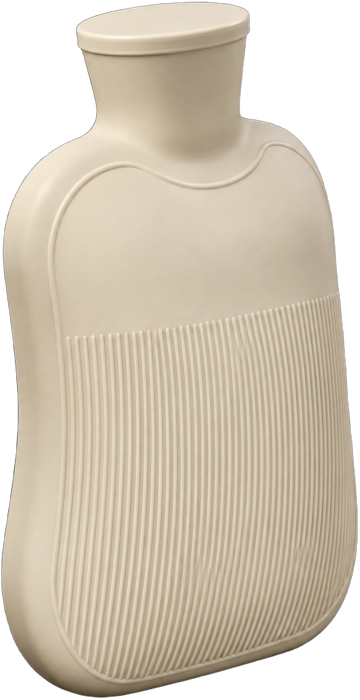
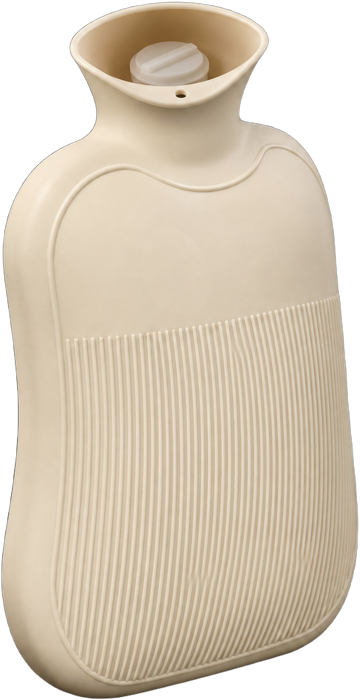
v3: water bottle neck, blink speed, band label size, pre-read layout

diff --git a/v3/index.html b/v3/index.html
@@ -1170,13 +1170,13 @@ section.ask-sec .hotglow{opacity:.55}
 section.ask-sec .play .hotglow{animation:ask-hp 3.2s ease-in-out infinite}
 @keyframes ask-hp{0%,100%{opacity:.35}50%{opacity:1}}
 section.ask-sec .skinheat{opacity:0}
-section.ask-sec .play .skinheat{animation:ask-sh .5s ease-in-out infinite}
+section.ask-sec .play .skinheat{animation:ask-sh 1.43s ease-in-out infinite}
 @keyframes ask-sh{0%,100%{opacity:0}50%{opacity:1}}
 section.ask-sec .wave{stroke-dasharray:6 10;opacity:0}
 section.ask-sec .play .wave{opacity:.9;animation:ask-wv 1.4s linear infinite}
 @keyframes ask-wv{to{stroke-dashoffset:-32}}
 section.ask-sec .deep{opacity:0}
-section.ask-sec .play .deep{animation:ask-sh .5s ease-in-out infinite}
+section.ask-sec .play .deep{animation:ask-sh 1.43s ease-in-out infinite}
 @keyframes ask-dp{0%{opacity:.05}45%,100%{opacity:1}}
 section.ask-sec .coldtxt{font-size:11px;font-weight:700;fill:#4F7499}
 section.ask-sec .warmtxt{font-size:11px;font-weight:800;fill:#fff}
@@ -1382,10 +1382,14 @@ section.ask-sec .ask-foot{margin-top:6px;padding:0 16px;text-align:center;font-s
 .life-sec .lf-cloth p{font-size:15px;line-height:1.75;color:rgba(255,255,255,.85);word-break:keep-all}
 .life-sec .lf-cloth b{color:#fff}
 .qna .pre-read{margin:0 0 56px}
-.qna .pr-title{font-size:26px;font-weight:800;letter-spacing:-.03em;color:var(--text-black);text-align:center}
+.qna .pr-title{font-size:34px;font-weight:800;letter-spacing:-.03em;color:var(--text-black);text-align:center}
 .qna .pr-box{margin-top:16px;padding:22px 18px;background:#fff;border:1.5px solid #24141A;border-radius:16px;text-align:center}
 .qna .pr-box p{font-size:15px;line-height:1.75;color:var(--text-dark);word-break:keep-all}
 .qna .pr-box b{color:var(--text-black);font-weight:800}
+.qna .pr-plain{margin-top:14px;text-align:center}
+.qna .pr-plain p{font-size:15px;line-height:1.75;color:var(--text-dark);word-break:keep-all}
+.qna .pr-plain b{color:var(--text-black);font-weight:800}
+.qna .pr-plain2{margin-top:22px}
 .qna-list .card p + p{margin-top:8px}
 
 /* ===== v3 additions ===== */
@@ -2487,7 +2491,7 @@ section.ask-sec .ask-foot{margin-top:16px;color:rgba(255,255,255,.7)}
     <rect x="229" y="10" width="38" height="280" rx="9" fill="#fff" filter="url(#hNeo)"/>
     <rect x="264" y="10" width="3" height="280" rx="1.5" fill="#3A3A3D"/>
     <rect class="hd" x="221" y="22" width="9" height="12" rx="4" fill="url(#hDot)"/><rect class="hd" x="221" y="40" width="9" height="12" rx="4" fill="url(#hDot)"/><rect class="hd" x="221" y="58" width="9" height="12" rx="4" fill="url(#hDot)"/><rect class="hd" x="221" y="76" width="9" height="12" rx="4" fill="url(#hDot)"/><rect class="hd" x="221" y="94" width="9" height="12" rx="4" fill="url(#hDot)"/><rect class="hd" x="221" y="112" width="9" height="12" rx="4" fill="url(#hDot)"/><rect class="hd" x="221" y="130" width="9" height="12" rx="4" fill="url(#hDot)"/><rect class="hd" x="221" y="148" width="9" height="12" rx="4" fill="url(#hDot)"/><rect class="hd" x="221" y="166" width="9" height="12" rx="4" fill="url(#hDot)"/><rect class="hd" x="221" y="184" width="9" height="12" rx="4" fill="url(#hDot)"/><rect class="hd" x="221" y="202" width="9" height="12" rx="4" fill="url(#hDot)"/><rect class="hd" x="221" y="220" width="9" height="12" rx="4" fill="url(#hDot)"/><rect class="hd" x="221" y="238" width="9" height="12" rx="4" fill="url(#hDot)"/><rect class="hd" x="221" y="256" width="9" height="12" rx="4" fill="url(#hDot)"/><rect class="hd" x="221" y="274" width="9" height="12" rx="4" fill="url(#hDot)"/>
-  <g class="h-name" font-size="25" font-weight="900" fill="#fff" fill-opacity=".92" text-anchor="middle"><text x="247" y="112">마</text><text x="247" y="142">이</text><text x="247" y="172">온</text><text x="247" y="202">도</text></g>
+  <g class="h-name" font-size="15.5" font-weight="900" fill="#fff" fill-opacity=".92" text-anchor="middle"><text x="247" y="125">마</text><text x="247" y="146">이</text><text x="247" y="167">온</text><text x="247" y="188">도</text></g>
   </g>
   <g filter="url(#hGlow)"><circle class="h1p" cx="0" cy="46" r="4.2" fill="#FF7A45" style="animation-delay:0.9s"/><circle class="h1p" cx="0" cy="70" r="4.2" fill="#FF7A45" style="animation-delay:0s"/><circle class="h1p" cx="0" cy="88" r="4.2" fill="#FF7A45" style="animation-delay:1.9s"/><circle class="h1p" cx="0" cy="104" r="4.2" fill="#FF7A45" style="animation-delay:0.5s"/><circle class="h1p" cx="0" cy="122" r="4.2" fill="#FF7A45" style="animation-delay:1.5s"/><circle class="h1p" cx="0" cy="140" r="4.2" fill="#FF7A45" style="animation-delay:1.0s"/><circle class="h1p" cx="0" cy="158" r="4.2" fill="#FF7A45" style="animation-delay:2.1s"/><circle class="h1p" cx="0" cy="176" r="4.2" fill="#FF7A45" style="animation-delay:0.25s"/><circle class="h1p" cx="0" cy="194" r="4.2" fill="#FF7A45" style="animation-delay:1.75s"/><circle class="h1p" cx="0" cy="212" r="4.2" fill="#FF7A45" style="animation-delay:0.75s"/><circle class="h1p" cx="0" cy="230" r="4.2" fill="#FF7A45" style="animation-delay:1.2s"/><circle class="h1p" cx="0" cy="248" r="4.2" fill="#FF7A45" style="animation-delay:1.25s"/><circle class="h1p" cx="0" cy="266" r="4.2" fill="#FF7A45" style="animation-delay:0.4s"/></g>
   <g class="h1a" fill="none" stroke="#E5322B" stroke-width="3.2" stroke-linecap="round" stroke-linejoin="round"><path d="M120 70h58"/><path d="M168 61l10 9-10 9"/><path d="M120 150h58"/><path d="M168 141l10 9-10 9"/><path d="M120 230h58"/><path d="M168 221l10 9-10 9"/></g>
@@ -2508,7 +2512,7 @@ section.ask-sec .ask-foot{margin-top:16px;color:rgba(255,255,255,.7)}
     <rect x="229" y="10" width="38" height="280" rx="9" fill="#fff" filter="url(#hNeo)"/>
     <rect x="264" y="10" width="3" height="280" rx="1.5" fill="#3A3A3D"/>
     <rect class="hd" x="221" y="22" width="9" height="12" rx="4" fill="url(#hDot)"/><rect class="hd" x="221" y="40" width="9" height="12" rx="4" fill="url(#hDot)"/><rect class="hd" x="221" y="58" width="9" height="12" rx="4" fill="url(#hDot)"/><rect class="hd" x="221" y="76" width="9" height="12" rx="4" fill="url(#hDot)"/><rect class="hd" x="221" y="94" width="9" height="12" rx="4" fill="url(#hDot)"/><rect class="hd" x="221" y="112" width="9" height="12" rx="4" fill="url(#hDot)"/><rect class="hd" x="221" y="130" width="9" height="12" rx="4" fill="url(#hDot)"/><rect class="hd" x="221" y="148" width="9" height="12" rx="4" fill="url(#hDot)"/><rect class="hd" x="221" y="166" width="9" height="12" rx="4" fill="url(#hDot)"/><rect class="hd" x="221" y="184" width="9" height="12" rx="4" fill="url(#hDot)"/><rect class="hd" x="221" y="202" width="9" height="12" rx="4" fill="url(#hDot)"/><rect class="hd" x="221" y="220" width="9" height="12" rx="4" fill="url(#hDot)"/><rect class="hd" x="221" y="238" width="9" height="12" rx="4" fill="url(#hDot)"/><rect class="hd" x="221" y="256" width="9" height="12" rx="4" fill="url(#hDot)"/><rect class="hd" x="221" y="274" width="9" height="12" rx="4" fill="url(#hDot)"/>
-  <g class="h-name" font-size="25" font-weight="900" fill="#fff" fill-opacity=".92" text-anchor="middle"><text x="247" y="112">마</text><text x="247" y="142">이</text><text x="247" y="172">온</text><text x="247" y="202">도</text></g>
+  <g class="h-name" font-size="15.5" font-weight="900" fill="#fff" fill-opacity=".92" text-anchor="middle"><text x="247" y="125">마</text><text x="247" y="146">이</text><text x="247" y="167">온</text><text x="247" y="188">도</text></g>
   </g>
   <g filter="url(#hGlow)"><g transform="translate(222 60)"><path class="h2w" d="M0 0 Q-6 -7 -12 0 Q-18 7 -24 0 Q-30 -7 -36 0 Q-42 7 -48 0 Q-54 -7 -60 0" stroke="#E2456E" stroke-width="2" fill="none" stroke-linecap="round" style="animation-delay:0.00s"/></g><g transform="translate(222 60)"><path class="h2w" d="M0 0 Q-6 -7 -12 0 Q-18 7 -24 0 Q-30 -7 -36 0 Q-42 7 -48 0 Q-54 -7 -60 0" stroke="#E2456E" stroke-width="2" fill="none" stroke-linecap="round" style="animation-delay:0.80s"/></g><g transform="translate(222 60)"><path class="h2w" d="M0 0 Q-6 -7 -12 0 Q-18 7 -24 0 Q-30 -7 -36 0 Q-42 7 -48 0 Q-54 -7 -60 0" stroke="#E2456E" stroke-width="2" fill="none" stroke-linecap="round" style="animation-delay:1.60s"/></g><g transform="translate(222 110)"><path class="h2w" d="M0 0 Q-6 -7 -12 0 Q-18 7 -24 0 Q-30 -7 -36 0 Q-42 7 -48 0 Q-54 -7 -60 0" stroke="#E2456E" stroke-width="2" fill="none" stroke-linecap="round" style="animation-delay:0.15s"/></g><g transform="translate(222 110)"><path class="h2w" d="M0 0 Q-6 -7 -12 0 Q-18 7 -24 0 Q-30 -7 -36 0 Q-42 7 -48 0 Q-54 -7 -60 0" stroke="#E2456E" stroke-width="2" fill="none" stroke-linecap="round" style="animation-delay:0.95s"/></g><g transform="translate(222 110)"><path class="h2w" d="M0 0 Q-6 -7 -12 0 Q-18 7 -24 0 Q-30 -7 -36 0 Q-42 7 -48 0 Q-54 -7 -60 0" stroke="#E2456E" stroke-width="2" fill="none" stroke-linecap="round" style="animation-delay:1.75s"/></g><g transform="translate(222 160)"><path class="h2w" d="M0 0 Q-6 -7 -12 0 Q-18 7 -24 0 Q-30 -7 -36 0 Q-42 7 -48 0 Q-54 -7 -60 0" stroke="#E2456E" stroke-width="2" fill="none" stroke-linecap="round" style="animation-delay:0.30s"/></g><g transform="translate(222 160)"><path class="h2w" d="M0 0 Q-6 -7 -12 0 Q-18 7 -24 0 Q-30 -7 -36 0 Q-42 7 -48 0 Q-54 -7 -60 0" stroke="#E2456E" stroke-width="2" fill="none" stroke-linecap="round" style="animation-delay:1.10s"/></g><g transform="translate(222 160)"><path class="h2w" d="M0 0 Q-6 -7 -12 0 Q-18 7 -24 0 Q-30 -7 -36 0 Q-42 7 -48 0 Q-54 -7 -60 0" stroke="#E2456E" stroke-width="2" fill="none" stroke-linecap="round" style="animation-delay:1.90s"/></g><g transform="translate(222 210)"><path class="h2w" d="M0 0 Q-6 -7 -12 0 Q-18 7 -24 0 Q-30 -7 -36 0 Q-42 7 -48 0 Q-54 -7 -60 0" stroke="#E2456E" stroke-width="2" fill="none" stroke-linecap="round" style="animation-delay:0.45s"/></g><g transform="translate(222 210)"><path class="h2w" d="M0 0 Q-6 -7 -12 0 Q-18 7 -24 0 Q-30 -7 -36 0 Q-42 7 -48 0 Q-54 -7 -60 0" stroke="#E2456E" stroke-width="2" fill="none" stroke-linecap="round" style="animation-delay:1.25s"/></g><g transform="translate(222 210)"><path class="h2w" d="M0 0 Q-6 -7 -12 0 Q-18 7 -24 0 Q-30 -7 -36 0 Q-42 7 -48 0 Q-54 -7 -60 0" stroke="#E2456E" stroke-width="2" fill="none" stroke-linecap="round" style="animation-delay:2.05s"/></g><g transform="translate(222 250)"><path class="h2w" d="M0 0 Q-6 -7 -12 0 Q-18 7 -24 0 Q-30 -7 -36 0 Q-42 7 -48 0 Q-54 -7 -60 0" stroke="#E2456E" stroke-width="2" fill="none" stroke-linecap="round" style="animation-delay:0.60s"/></g><g transform="translate(222 250)"><path class="h2w" d="M0 0 Q-6 -7 -12 0 Q-18 7 -24 0 Q-30 -7 -36 0 Q-42 7 -48 0 Q-54 -7 -60 0" stroke="#E2456E" stroke-width="2" fill="none" stroke-linecap="round" style="animation-delay:1.40s"/></g><g transform="translate(222 250)"><path class="h2w" d="M0 0 Q-6 -7 -12 0 Q-18 7 -24 0 Q-30 -7 -36 0 Q-42 7 -48 0 Q-54 -7 -60 0" stroke="#E2456E" stroke-width="2" fill="none" stroke-linecap="round" style="animation-delay:2.20s"/></g></g>
   <g class="h-lbl" font-size="10.5" font-weight="700" fill="#3B2A2E">
@@ -2528,7 +2532,7 @@ section.ask-sec .ask-foot{margin-top:16px;color:rgba(255,255,255,.7)}
     <rect x="229" y="10" width="38" height="280" rx="9" fill="#fff" filter="url(#hNeo)"/>
     <rect x="264" y="10" width="3" height="280" rx="1.5" fill="#3A3A3D"/>
     <rect class="hd" x="221" y="22" width="9" height="12" rx="4" fill="url(#hDot)"/><rect class="hd" x="221" y="40" width="9" height="12" rx="4" fill="url(#hDot)"/><rect class="hd" x="221" y="58" width="9" height="12" rx="4" fill="url(#hDot)"/><rect class="hd" x="221" y="76" width="9" height="12" rx="4" fill="url(#hDot)"/><rect class="hd" x="221" y="94" width="9" height="12" rx="4" fill="url(#hDot)"/><rect class="hd" x="221" y="112" width="9" height="12" rx="4" fill="url(#hDot)"/><rect class="hd" x="221" y="130" width="9" height="12" rx="4" fill="url(#hDot)"/><rect class="hd" x="221" y="148" width="9" height="12" rx="4" fill="url(#hDot)"/><rect class="hd" x="221" y="166" width="9" height="12" rx="4" fill="url(#hDot)"/><rect class="hd" x="221" y="184" width="9" height="12" rx="4" fill="url(#hDot)"/><rect class="hd" x="221" y="202" width="9" height="12" rx="4" fill="url(#hDot)"/><rect class="hd" x="221" y="220" width="9" height="12" rx="4" fill="url(#hDot)"/><rect class="hd" x="221" y="238" width="9" height="12" rx="4" fill="url(#hDot)"/><rect class="hd" x="221" y="256" width="9" height="12" rx="4" fill="url(#hDot)"/><rect class="hd" x="221" y="274" width="9" height="12" rx="4" fill="url(#hDot)"/>
-  <g class="h-name" font-size="25" font-weight="900" fill="#fff" fill-opacity=".92" text-anchor="middle"><text x="247" y="112">마</text><text x="247" y="142">이</text><text x="247" y="172">온</text><text x="247" y="202">도</text></g>
+  <g class="h-name" font-size="15.5" font-weight="900" fill="#fff" fill-opacity=".92" text-anchor="middle"><text x="247" y="125">마</text><text x="247" y="146">이</text><text x="247" y="167">온</text><text x="247" y="188">도</text></g>
   </g>
   <g filter="url(#hGlow)"><g transform="translate(0 80)"><path class="h3c" d="M0 -9 L-9 0 L0 9" stroke="#FF6A3D" stroke-width="3" fill="none" stroke-linecap="round" stroke-linejoin="round" style="animation-delay:0.0s"/></g><g transform="translate(0 80)"><path class="h3c" d="M0 -9 L-9 0 L0 9" stroke="#FF6A3D" stroke-width="3" fill="none" stroke-linecap="round" stroke-linejoin="round" style="animation-delay:0.6s"/></g><g transform="translate(0 80)"><path class="h3c" d="M0 -9 L-9 0 L0 9" stroke="#FF6A3D" stroke-width="3" fill="none" stroke-linecap="round" stroke-linejoin="round" style="animation-delay:1.2s"/></g><g transform="translate(0 150)"><path class="h3c" d="M0 -9 L-9 0 L0 9" stroke="#FF6A3D" stroke-width="3" fill="none" stroke-linecap="round" stroke-linejoin="round" style="animation-delay:0.2s"/></g><g transform="translate(0 150)"><path class="h3c" d="M0 -9 L-9 0 L0 9" stroke="#FF6A3D" stroke-width="3" fill="none" stroke-linecap="round" stroke-linejoin="round" style="animation-delay:0.8s"/></g><g transform="translate(0 150)"><path class="h3c" d="M0 -9 L-9 0 L0 9" stroke="#FF6A3D" stroke-width="3" fill="none" stroke-linecap="round" stroke-linejoin="round" style="animation-delay:1.4s"/></g><g transform="translate(0 220)"><path class="h3c" d="M0 -9 L-9 0 L0 9" stroke="#FF6A3D" stroke-width="3" fill="none" stroke-linecap="round" stroke-linejoin="round" style="animation-delay:0.4s"/></g><g transform="translate(0 220)"><path class="h3c" d="M0 -9 L-9 0 L0 9" stroke="#FF6A3D" stroke-width="3" fill="none" stroke-linecap="round" stroke-linejoin="round" style="animation-delay:1.0s"/></g><g transform="translate(0 220)"><path class="h3c" d="M0 -9 L-9 0 L0 9" stroke="#FF6A3D" stroke-width="3" fill="none" stroke-linecap="round" stroke-linejoin="round" style="animation-delay:1.6s"/></g></g>
   <g class="h-lbl" font-size="10.5" font-weight="700" fill="#3B2A2E">
@@ -2738,12 +2742,11 @@ section.ask-sec .ask-foot{margin-top:16px;color:rgba(255,255,255,.7)}
 
 <!-- [16] Q&A -->
 <section class="qna">
-  <div class="pre-read rv-up">
+  <div class="pre-read rv-up" id="pre-read">
     <h2 class="pr-title">구매 전 꼭 읽어주세요</h2>
-    <div class="pr-box"><p>마이온도 복사발열 메커니즘은 피부만 데우는<br>흔한 원리가 아닙니다.<br><b>심부를 천천히 데우는 구조로써 구매 후<br>착용하자마자 뜨거움을 느낄 수 없고<br>시간이 필요합니다.</b></p></div>
-    <div class="pr-box"><p><b>아래 내용을 숙지하지 않아<br>발생하는 변심은 환불이 불가능합니다.</b><br>반드시 내용을 확인한 후 신중하게 구매해 주세요.</p></div>
+    <div class="pr-plain"><p>마이온도 복사발열 메커니즘은 피부만 데우는<br>흔한 원리가 아닙니다.<br><b>심부를 천천히 데우는 구조로써 구매 후<br>착용하자마자 뜨거움을 느낄 수 없고<br>시간이 필요합니다.</b></p></div>
+    <div class="pr-plain pr-plain2"><p><b>아래 내용을 숙지하지 않아<br>발생하는 변심은 환불이 불가능합니다.</b><br>반드시 내용을 확인한 후 신중하게 구매해 주세요.</p></div>
   </div>
-  <h2 class="section-title">궁금한 점, <strong>미리 풀어드려요</strong></h2>
   <div class="qna-list">
     <div class="card"><strong>Q1. 처음 둘렀는데 아무 느낌이 없어요. 불량인가요?</strong><p>첫 착용 시 아무 느낌이 없는 것은 정상적인 현상입니다.</p><p>마이온도의 원적외선과 파동에너지는 피부에 머물지 않고 통과해 심부층에 도달하기 때문에, 처음엔 피부에서 바로 뜨거움이 느껴지지 않아요.</p><p>착용하자마자 피부만 데우거나 너무 뜨거워 화상의 위험이 있는 제품과 차원이 다릅니다.</p><p>이것이 마이온도만의 차별화된 핵심 기술입니다.</p></div>
     <div class="card"><strong>Q2. 그럼 뜨겁다고 하는 후기는 무엇인가요?</strong><p>원적외선과 파동에너지가 몸속 깊은 곳까지 작용해 심부가 충분히 따뜻해지면, 그제서야 비로소 온열감을 '체감'할 수 있습니다.</p><p>다만 체감 속도와 강도는 사람마다 다릅니다. 같은 운동을 해도 금방 땀이 나는 분이 있고 늦게 나는 분이 있는 것처럼요.</p><p>운동 직후 효과가 눈에 보이지 않아도 몸 안에서는 변화가 일어나고 있듯이, 꾸준히 착용하면 온열감을 점점 더 잘 체감할 수 있습니다.</p><p>체감이 빠르든 느리든 상관없이, 원적외선과 파동에너지는 똑같이 전달되고 있어요. 단지 내가 알아차리는 데 시간이 걸릴 뿐이에요.</p></div>
